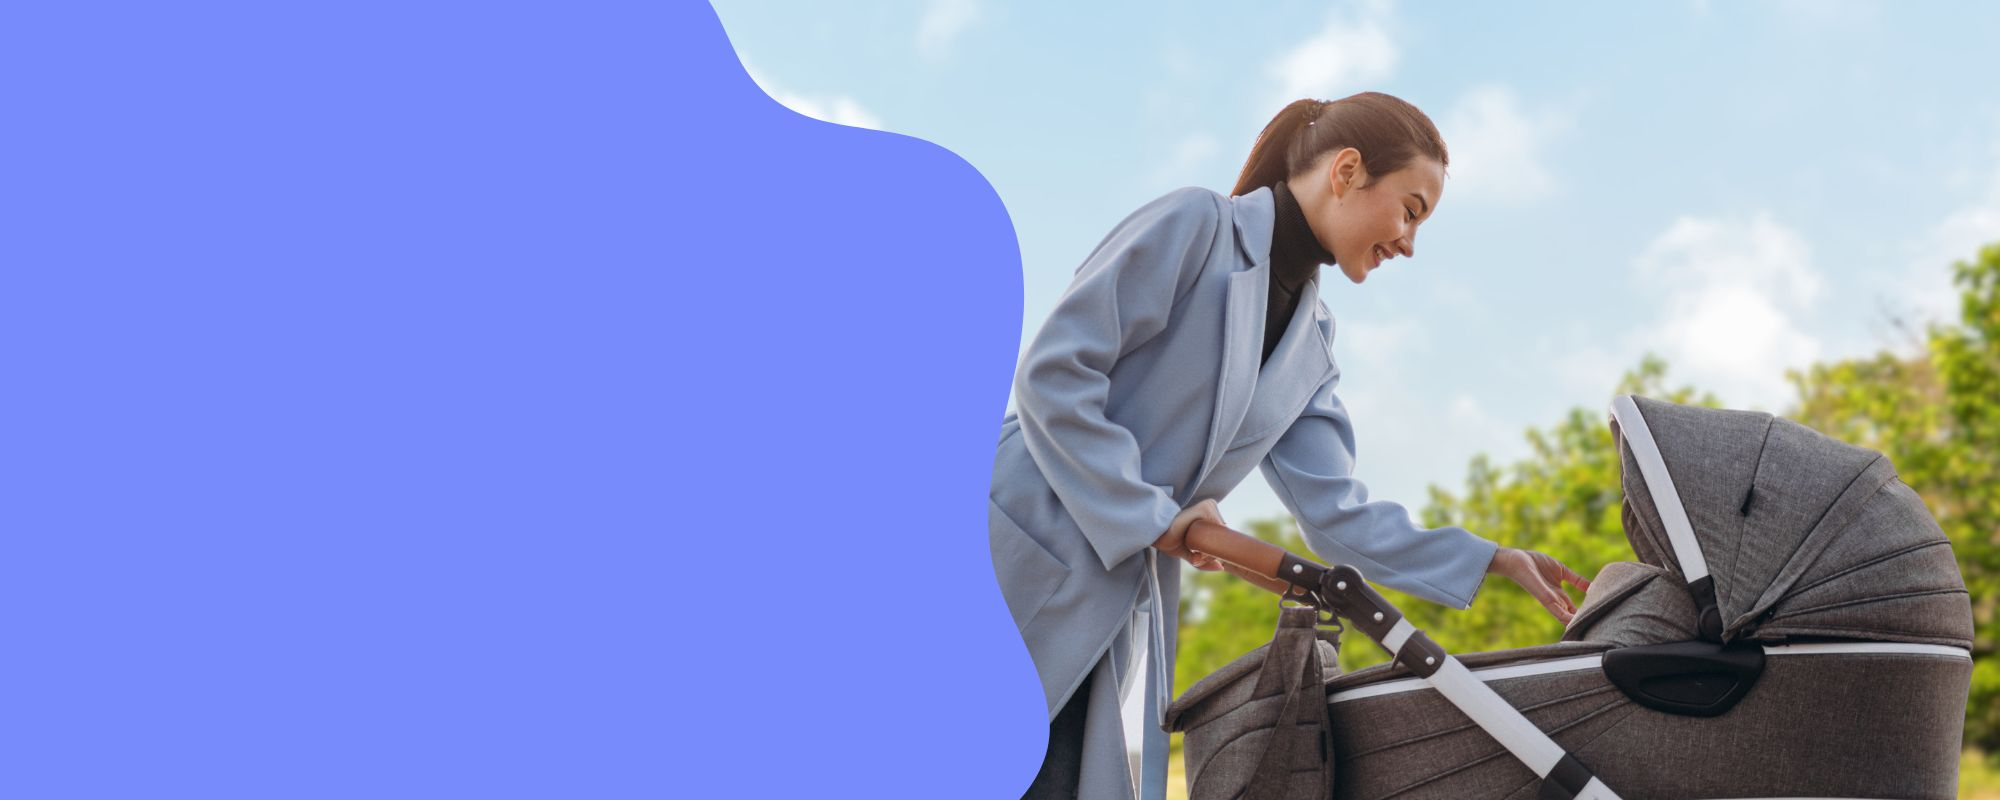
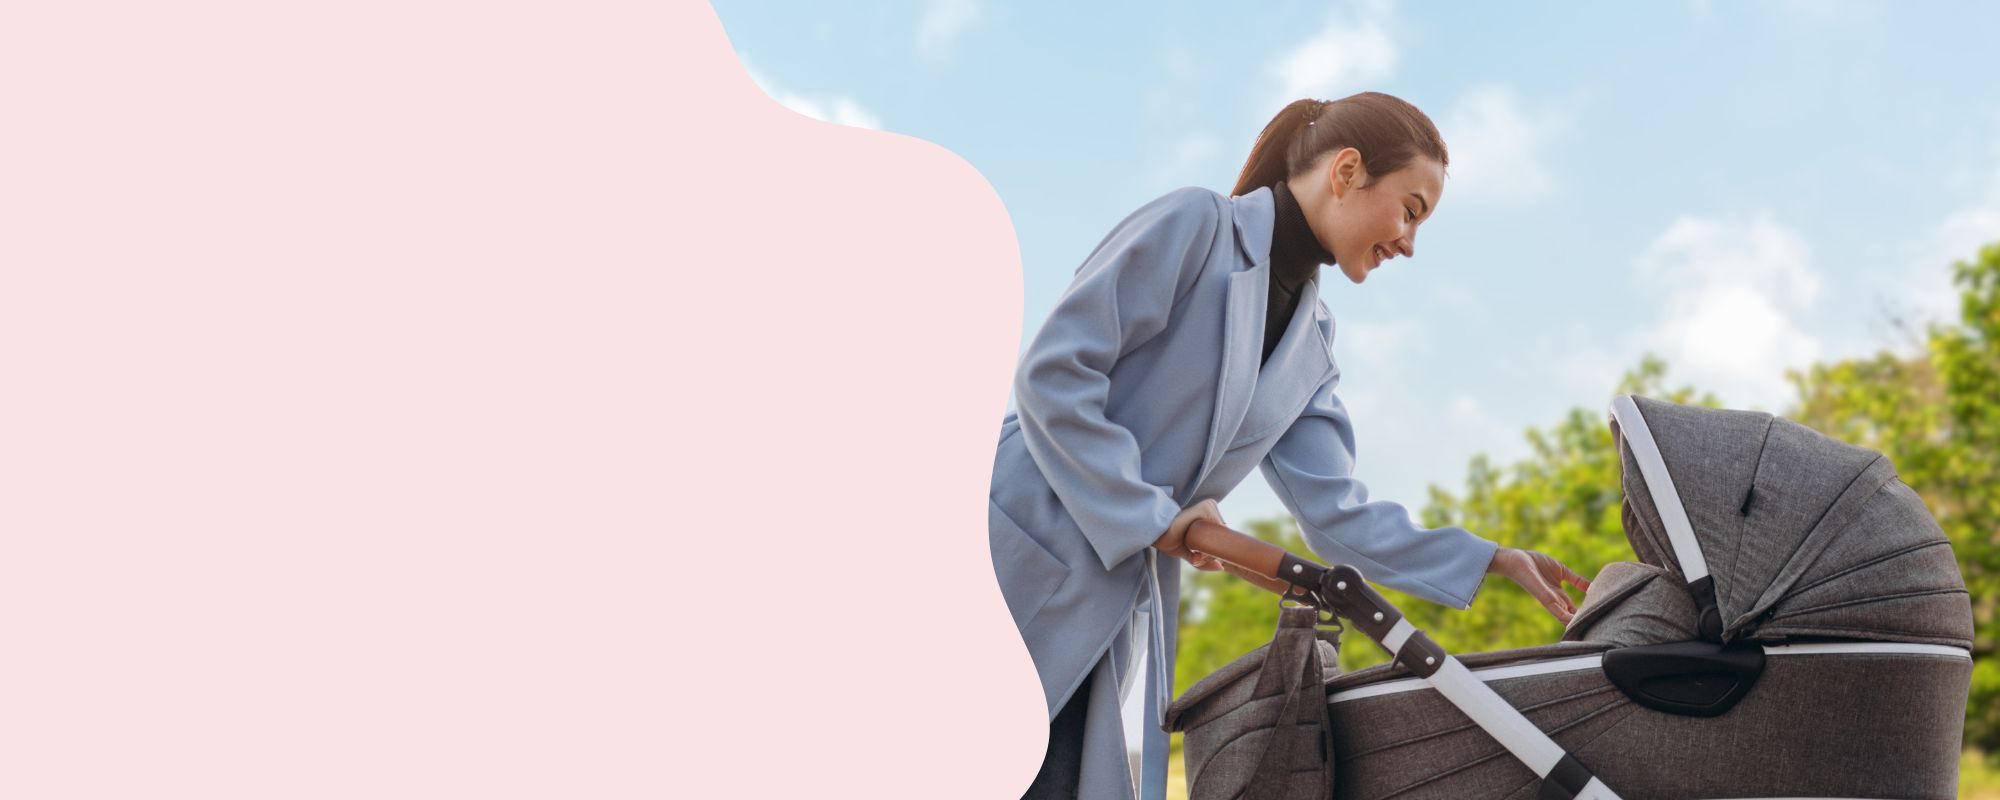
updated style homepage

diff --git a/app/assets/stylesheets/pages/_home.scss b/app/assets/stylesheets/pages/_home.scss
@@ -4,8 +4,8 @@
   background-image: asset-url("krenty-banner");
   height: 500px;
   background-size: cover;
-  color: $off-white;
-  text-shadow: 2px 2px 2px #17171721;
+  color: $lila;
+  margin-top: -18px;
 
   p {
     width: 40%;
@@ -13,7 +13,14 @@
   }
 
   .btn {
-    color: $blue;
-    background-color: $off-white;
+    color: $off-white;
+    background-color: $pink;
   }
+}
+
+.about {
+  width: 50%;
+  text-align: center;
+  margin-top: 100px ;
+  margin-bottom: 100px ;
 }

diff --git a/app/assets/stylesheets/config/_bootstrap_variables.scss b/app/assets/stylesheets/config/_bootstrap_variables.scss
@@ -12,11 +12,10 @@ $font-size-base:         1rem;
 
 // Colors
 $body-color: $light-black;
-$primary:    $blue;
-$success:    $green;
+$primary:    $pink;
+$success:    $rosa;
 $info:       $off-white;
-$danger:     $red;
-$warning:    $red;
+
 
 // Buttons & inputs' radius
 $border-radius:    4px;

diff --git a/app/assets/stylesheets/config/_colors.scss b/app/assets/stylesheets/config/_colors.scss
@@ -1,9 +1,8 @@
 // Define variables for your color scheme
 
-$blue: #5465FF;
-$light-blue: #778BFC;
+$lila: #6C219E;
+$rosa: #F9E3E4;
 $light-black:#171717;
 $gray: #DDDDDD;
 $off-white: #FDFDFD;
-$red: #D14149;
-$green: #007C97;
+$pink: #FA3A79;

diff --git a/app/assets/stylesheets/components/_navbar.scss b/app/assets/stylesheets/components/_navbar.scss
@@ -1,6 +1,6 @@
 .navbar-lewagon {
   justify-content: space-between;
-  background: $blue;
+  background: $lila;
 }
 
 .navbar-lewagon .navbar-collapse {
@@ -30,5 +30,5 @@
 }
 
 a:hover{
-  color: $light-blue;
+  color: $rosa;
 }

diff --git a/app/assets/stylesheets/components/_footer.scss b/app/assets/stylesheets/components/_footer.scss
@@ -1,5 +1,5 @@
 .footer {
-  background: $blue;
+  background: $lila;
   display: flex;
   align-items: center;
   justify-content: space-between;
@@ -38,5 +38,5 @@
 }
 
 i:hover{
-  color: $light-blue;
+  color: $rosa;
 }
